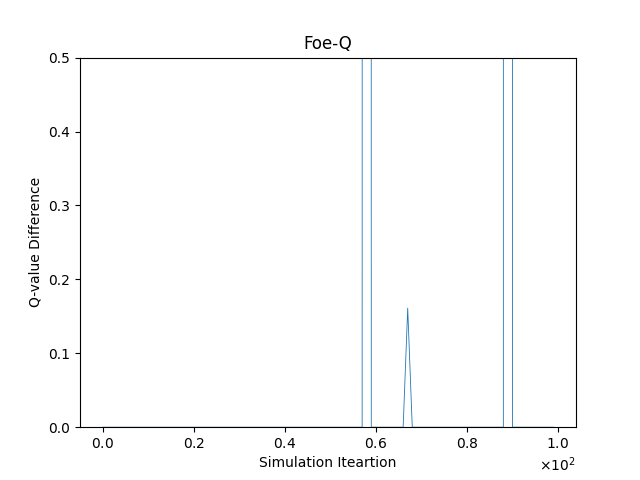
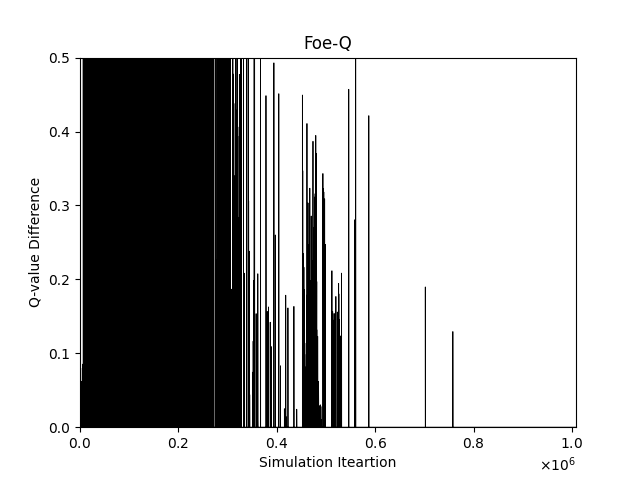
finish friend/foe/q_learning

diff --git a/p3/foe_q.py b/p3/foe_q.py
@@ -3,15 +3,40 @@
 from sys import argv
 import pickle
 import numpy as np
+from cvxopt import matrix, solvers
 from util import SoccerEnv, logger, plot_fig, translate_rewards, translate_state, map_action
+solvers.options['show_progress'] = False
+
+def maxi_min(Q, state):
+    A, B, possession = state
+    c = matrix([-1., 0., 0., 0., 0., 0.])
+    G = matrix(
+        np.append(
+            np.append(
+                np.ones((5, 1)),
+                -Q[A][B][possession],
+                axis=1
+            ),
+            np.append(
+                np.zeros((5, 1)),
+                -np.eye(5),
+                axis=1
+            ),
+            axis=0
+        )
+    )
+    h = matrix([0., 0., 0., 0., 0., 0., 0., 0., 0., 0.])
+    A = matrix([[0.], [1.], [1.], [1.], [1.], [1.]])
+    b = matrix(1.)
+    lp = solvers.lp(c=c, G=G, h=h, A=A, b=b)
+    return np.abs(lp['x'][1:]).reshape((5,)) / sum(np.abs(lp['x'][1:]))
 
 def select_epsilon_greedy_action(Q, state, epsilon):
     '''Select epsilon greedy action'''
     if np.random.random() < epsilon:
         return np.random.randint(5)
-    A, B, possession = state
-    min_action = np.where(Q[A][B][possession] == np.min(Q[A][B][possession]))[1]
-    return np.random.choice(min_action, 1)[0]
+    prob = maxi_min(Q, state)
+    return np.random.choice(np.arange(5), 1, p=prob)[0]
 
 # pylint: disable=too-many-locals
 def foe_q(steps=1000000):
@@ -29,25 +54,27 @@ def foe_q(steps=1000000):
 
     # actions for both players in Q values
     q_values = [
-        np.zeros((8, 8, 2, 5, 5)),
-        np.zeros((8, 8, 2, 5, 5)),
+        np.ones((8, 8, 2, 5, 5)) * 1.,
+        np.ones((8, 8, 2, 5, 5)) * 1.,
     ]
 
     for _ in range(steps):
-        if _ % 1000 == 0:
-            print('\rPercentage: {:.2f}%'.format(_ * 100 / steps), end='')
+        if _ > 0 and _ % 1000 == 0:
+            if _ % 10000 == 0:
+                print('\rStep {}\tEpsilon: {:.3f}\tLast error: {}\tError mean: {:.3f}\tPercentage: {:.2f}%\t Alpha: {:.3f}'.format(_, epsilon, q_value_diff[-1], np.mean(q_value_diff[:-100]), _ * 100 / steps, alpha))
+            else:
+                print('\rStep {}\tEpsilon: {:.3f}\tLast error: {}\tError mean: {:.3f}\tPercentage: {:.2f}%\t Alpha: {:.3f}'.format(_, epsilon, q_value_diff[-1], np.mean(q_value_diff[:-100]), _ * 100 / steps, alpha), end='')
         env = SoccerEnv()
         done = False
         while not done:
             state = translate_state(env.get_state())
-            actions = [select_epsilon_greedy_action(q_values[1], state, epsilon), select_epsilon_greedy_action(q_values[0], state, epsilon)]
+            actions = [select_epsilon_greedy_action(q_value, state, epsilon) for q_value in q_values]
             next_state, _rewards, done = env.simulate_action(*actions)
             rewards = translate_rewards(_rewards)
-            logger('State: {}; Actions: {};\t Next State: {}; Rewards: {};\t Terminal: {}'.format(state, [map_action(a) for a in actions], translate_state(next_state), rewards, done))
-
             a_pos, b_pos, ball_poss = state
             next_a_pos, next_b_pos, next_ball_poss = translate_state(next_state)
-            before = q_values[0][a_pos][b_pos][ball_poss][actions[0]][4]
+            before = q_values[0][2][1][1][3][4] # Per section 5 of Greenwald-Hall-2003
+
             if done:
                 # Player A
                 diff = alpha * (rewards[0] - q_values[0][a_pos][b_pos][ball_poss][actions[0]][actions[1]])
@@ -55,25 +82,28 @@ def foe_q(steps=1000000):
                 # Player B
                 diff = alpha * (rewards[1] - q_values[1][a_pos][b_pos][ball_poss][actions[1]][actions[0]])
                 q_values[1][a_pos][b_pos][ball_poss][actions[1]][actions[0]] += diff
+                break
             else:
                 # Player A
                 diff = alpha * (rewards[0] + gamma * \
                     np.max(q_values[0][next_a_pos][next_b_pos][next_ball_poss]) - q_values[0][a_pos][b_pos][ball_poss][actions[0]][actions[1]])
-                q_values[0][a_pos][b_pos][ball_poss][actions[0]][actions[1]] += diff
+                q_values[0][a_pos][b_pos][ball_poss][actions[0]][actions[1]] = (1 - alpha) * q_values[0][a_pos][b_pos][ball_poss][actions[0]][actions[1]] + diff
                 # Player B
                 diff = alpha * (rewards[1] + gamma * \
                     np.max(q_values[1][next_a_pos][next_b_pos][next_ball_poss]) - q_values[1][a_pos][b_pos][ball_poss][actions[1]][actions[0]])
-                q_values[1][a_pos][b_pos][ball_poss][actions[1]][actions[0]] += diff
-            after = q_values[0][a_pos][b_pos][ball_poss][actions[0]][4]
+                q_values[1][a_pos][b_pos][ball_poss][actions[1]][actions[0]] = (1 - alpha) * q_values[1][a_pos][b_pos][ball_poss][actions[1]][actions[0]] + diff
 
-            if epsilon > epsilon_min:
-                epsilon *= (1 - epsilon_decay)
-            if alpha > alpha_min:
-                alpha *= (1 - alpha_decay)
+                if epsilon > epsilon_min:
+                    epsilon *= (1 - epsilon_decay)
+                if alpha > alpha_min:
+                    alpha *= (1 - alpha_decay)
+
+            after = q_values[0][2][1][1][3][4]
 
             state = translate_state(next_state)
-
-        q_value_diff.append(abs(after - before))
+            q_value_diff.append(abs(after - before))
+            if q_value_diff[-1] > 0:
+                logger('Player positions: {}\t Error: {:.3f}\t State: {}; Actions: {};\t Next State: {}; Rewards: {};\t Terminal: {}'.format((a_pos, b_pos), q_value_diff[-1], state, [map_action(a) for a in actions], translate_state(next_state), rewards, done))
 
     return q_value_diff
 
@@ -85,4 +115,4 @@ if __name__ == '__main__':
     else:
         list_of_error_diffs = foe_q()
         pickle.dump(list_of_error_diffs, open('bin/foe-q.p', 'wb'))
-        plot_fig(list_of_error_diffs, 'Foe-Q')
+        plot_fig(np.array(list_of_error_diffs)[np.where(np.array(list_of_error_diffs) > 0)], 'Foe-Q')

diff --git a/p3/friend_q.py b/p3/friend_q.py
@@ -34,8 +34,11 @@ def friend_q(steps=1000000):
     ]
 
     for _ in range(steps):
-        if _ % 1000 == 0:
-            print('\rPercentage: {:.2f}%'.format(_ * 100 / steps), end='')
+        if _ > 0 and _ % 1000 == 0:
+            if _ % 10000 == 0:
+                print('\rStep {}\tEpsilon: {:.3f}\tLast error: {}\tError mean: {:.3f}\tPercentage: {:.2f}%\t Alpha: {:.3f}'.format(_, epsilon, q_value_diff[-1], np.mean(q_value_diff[:-100]), _ * 100 / steps, alpha))
+            else:
+                print('\rStep {}\tEpsilon: {:.3f}\tLast error: {}\tError mean: {:.3f}\tPercentage: {:.2f}%\t Alpha: {:.3f}'.format(_, epsilon, q_value_diff[-1], np.mean(q_value_diff[:-100]), _ * 100 / steps, alpha), end='')
         env = SoccerEnv()
         done = False
         while not done:
@@ -43,11 +46,10 @@ def friend_q(steps=1000000):
             actions = [select_epsilon_greedy_action(q_value, state, epsilon) for q_value in q_values]
             next_state, _rewards, done = env.simulate_action(*actions)
             rewards = translate_rewards(_rewards)
-            logger('State: {}; Actions: {};\t Next State: {}; Rewards: {};\t Terminal: {}'.format(state, [map_action(a) for a in actions], translate_state(next_state), rewards, done))
-
             a_pos, b_pos, ball_poss = state
             next_a_pos, next_b_pos, next_ball_poss = translate_state(next_state)
-            before = q_values[0][a_pos][b_pos][ball_poss][actions[0]][4]
+            before = q_values[0][2][1][1][3][4] # Per section 5 of Greenwald-Hall-2003
+
             if done:
                 # Player A
                 diff = alpha * (rewards[0] - q_values[0][a_pos][b_pos][ball_poss][actions[0]][actions[1]])
@@ -55,6 +57,7 @@ def friend_q(steps=1000000):
                 # Player B
                 diff = alpha * (rewards[1] - q_values[1][a_pos][b_pos][ball_poss][actions[1]][actions[0]])
                 q_values[1][a_pos][b_pos][ball_poss][actions[1]][actions[0]] += diff
+                break
             else:
                 # Player A
                 diff = alpha * (rewards[0] + gamma * \
@@ -64,18 +67,19 @@ def friend_q(steps=1000000):
                 diff = alpha * (rewards[1] + gamma * \
                     np.max(q_values[1][next_a_pos][next_b_pos][next_ball_poss]) - q_values[1][a_pos][b_pos][ball_poss][actions[1]][actions[0]])
                 q_values[1][a_pos][b_pos][ball_poss][actions[1]][actions[0]] += diff
-            after = q_values[0][a_pos][b_pos][ball_poss][actions[0]][4]
 
-            if epsilon > epsilon_min:
-                epsilon *= (1 - epsilon_decay)
-            if alpha > alpha_min:
-                alpha *= (1 - alpha_decay)
+                if epsilon > epsilon_min:
+                    epsilon *= (1 - epsilon_decay)
+                alpha = 1 / (_ / alpha_min / steps + 1)
+
+            after = q_values[0][2][1][1][3][4]
 
             state = translate_state(next_state)
+            q_value_diff.append(abs(after - before))
+            if q_value_diff[-1] > 0:
+                logger('Player positions: {}\t Error: {:.3f}\t State: {}; Actions: {};\t Next State: {}; Rewards: {};\t Terminal: {}'.format((a_pos, b_pos), q_value_diff[-1], state, [map_action(a) for a in actions], translate_state(next_state), rewards, done))
 
-        q_value_diff.append(abs(after - before))
-
-    return q_value_diff
+    return np.array(q_value_diff)[np.where(np.array(q_value_diff) > 0)]
 
 if __name__ == '__main__':
     np.random.seed(1827343)

diff --git a/p3/q_learning.py b/p3/q_learning.py
@@ -34,8 +34,11 @@ def q_learning(steps=1000000):
     ]
 
     for _ in range(steps):
-        if _ % 1000 == 0:
-            print('\rPercentage: {:.2f}%'.format(_ * 100 / steps), end='')
+        if _ > 0 and _ % 1000 == 0:
+            if _ % 10000 == 0:
+                print('\rStep {}\tEpsilon: {:.3f}\tLast error: {}\tError mean: {:.3f}\tPercentage: {:.2f}%'.format(_, epsilon, q_value_diff[-1], np.mean(q_value_diff), _ * 100 / steps))
+            else:
+                print('\rStep {}\tEpsilon: {:.3f}\tLast error: {}\tError mean: {:.3f}\tPercentage: {:.2f}%'.format(_, epsilon, q_value_diff[-1], np.mean(q_value_diff), _ * 100 / steps), end='')
         env = SoccerEnv()
         done = False
         while not done:
@@ -43,12 +46,11 @@ def q_learning(steps=1000000):
             actions = [select_epsilon_greedy_action(q_value, state, epsilon) for q_value in q_values]
             next_state, _rewards, done = env.simulate_action(*actions)
             rewards = translate_rewards(_rewards)
-            logger('State: {}; Actions: {};\t Next State: {}; Rewards: {};\t Terminal: {}'.format(state, [map_action(a) for a in actions], translate_state(next_state), rewards, done))
             if '--render' in argv:
                 env.render(actions, done)
             a_pos, b_pos, ball_poss = state
             next_a_pos, next_b_pos, next_ball_poss = translate_state(next_state)
-            before = q_values[0][a_pos][b_pos][ball_poss][actions[0]]
+            before = q_values[0][2][1][1][3]
             if done:
                 for i, _ in enumerate(q_values):
                     action = actions[i]
@@ -61,15 +63,16 @@ def q_learning(steps=1000000):
                         max(q_values[i][next_a_pos][next_b_pos][next_ball_poss]) - q_values[i][a_pos][b_pos][ball_poss][action])
                     q_values[i][a_pos][b_pos][ball_poss][action] += diff
 
-            after = q_values[0][a_pos][b_pos][ball_poss][actions[0]]
+            after = q_values[0][2][1][1][3]
             if epsilon > epsilon_min:
                 epsilon *= (1 - epsilon_decay)
             if alpha > alpha_min:
                 alpha *= (1 - alpha_decay)
 
             state = translate_state(next_state)
-
-        q_value_diff.append(abs(after - before))
+            q_value_diff.append(abs(after - before))
+            if q_value_diff[-1] > 0:
+                logger('Player positions: {}\t Error: {:.3f}\t State: {}; Actions: {};\t Next State: {}; Rewards: {};\t Terminal: {}'.format((a_pos, b_pos), q_value_diff[-1], state, [map_action(a) for a in actions], translate_state(next_state), rewards, done))
 
     return q_value_diff
 
@@ -77,8 +80,8 @@ if __name__ == '__main__':
     np.random.seed(1827343)
     if '--plot-only' in argv:
         list_of_error_diffs = pickle.load(open('bin/q-learner.p', 'rb'))
-        plot_fig(list_of_error_diffs, 'Q-learner')
+        plot_fig(np.array(list_of_error_diffs)[np.where(np.array(list_of_error_diffs) > 0)], 'Q-learner')
     else:
         list_of_error_diffs = q_learning()
         pickle.dump(list_of_error_diffs, open('bin/q-learner.p', 'wb'))
-        plot_fig(list_of_error_diffs, 'Q-learner')
+        plot_fig(np.array(list_of_error_diffs)[np.where(np.array(list_of_error_diffs) > 0)], 'Q-learner')

diff --git a/p3/util.py b/p3/util.py
@@ -12,13 +12,14 @@ def logger(_str, level='low'):
 
 def plot_fig(errors, title):
     '''Plot convergence'''
-    plt.plot(errors, linestyle='-', linewidth=0.6)
+    plt.plot(errors, 'k', linestyle='-', linewidth=0.6)
 
     plt.title(title)
     plt.xlabel('Simulation Iteartion')
     plt.ylabel('Q-value Difference')
     plt.ylim(0., .5)
     plt.ticklabel_format(style='sci', axis='x', scilimits=(0, 0), useMathText=True)
+    plt.margins(x=0, y=0)
 
     fig = plt.gcf()
     plt.draw()
